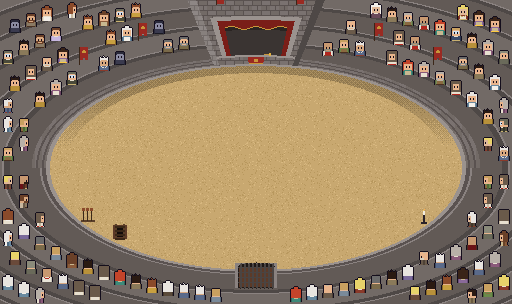
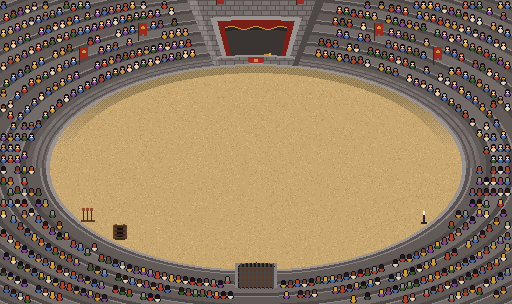
The Colosseum crowd small again: scenery in the stands, still nobody overlapping anything
Claude-Session: https://claude.ai/code/session_01M3Peeuj4v63JAjidnU8Moq

Changed region(s): [[0.0, 0.0, 1.0, 1.0]]

diff --git a/EPISODES.md b/EPISODES.md
@@ -82,7 +82,8 @@ don't follow the crime (twenty, then *one*, then fifty), and the last one gets a
   Barnaby is a ringmaster now (top hat, red tailcoat, moustache), and a small guy (`short`: stubby legs), here and in Warrior City.
 - **The Colosseum** (author, Oct 6, 2026: "look at the arena outside looking in"): the arena (`the-pit`) is drawn as the
   inside of the oval Warrior City shows from without, wider (32×19, two rows of stands over the box), open to the sky: sand, a low stone wall, tiers
-  packed with the crowd (the walkers' own townsfolk, the size of everyone else in the World, author: "regular";
+  packed with the crowd (small pixel people, scenery far off behind the action, author: the regular-sized crowd looked
+  bad and made Barnaby look like a giant;
   nobody overlapping anybody, the wall, a banner, the box or the gate, since each seat is checked clear at full cheering
   height first; faces toward the sand and backs on the near side, on their feet and
   cheering every other beat: a second picture, `the-pit-cheer.png`, `cheer` on the map), the Crown's red banners with the gold fist, the great gate at the bottom (shut: bars and a portcullis, author) and a trapdoor down
